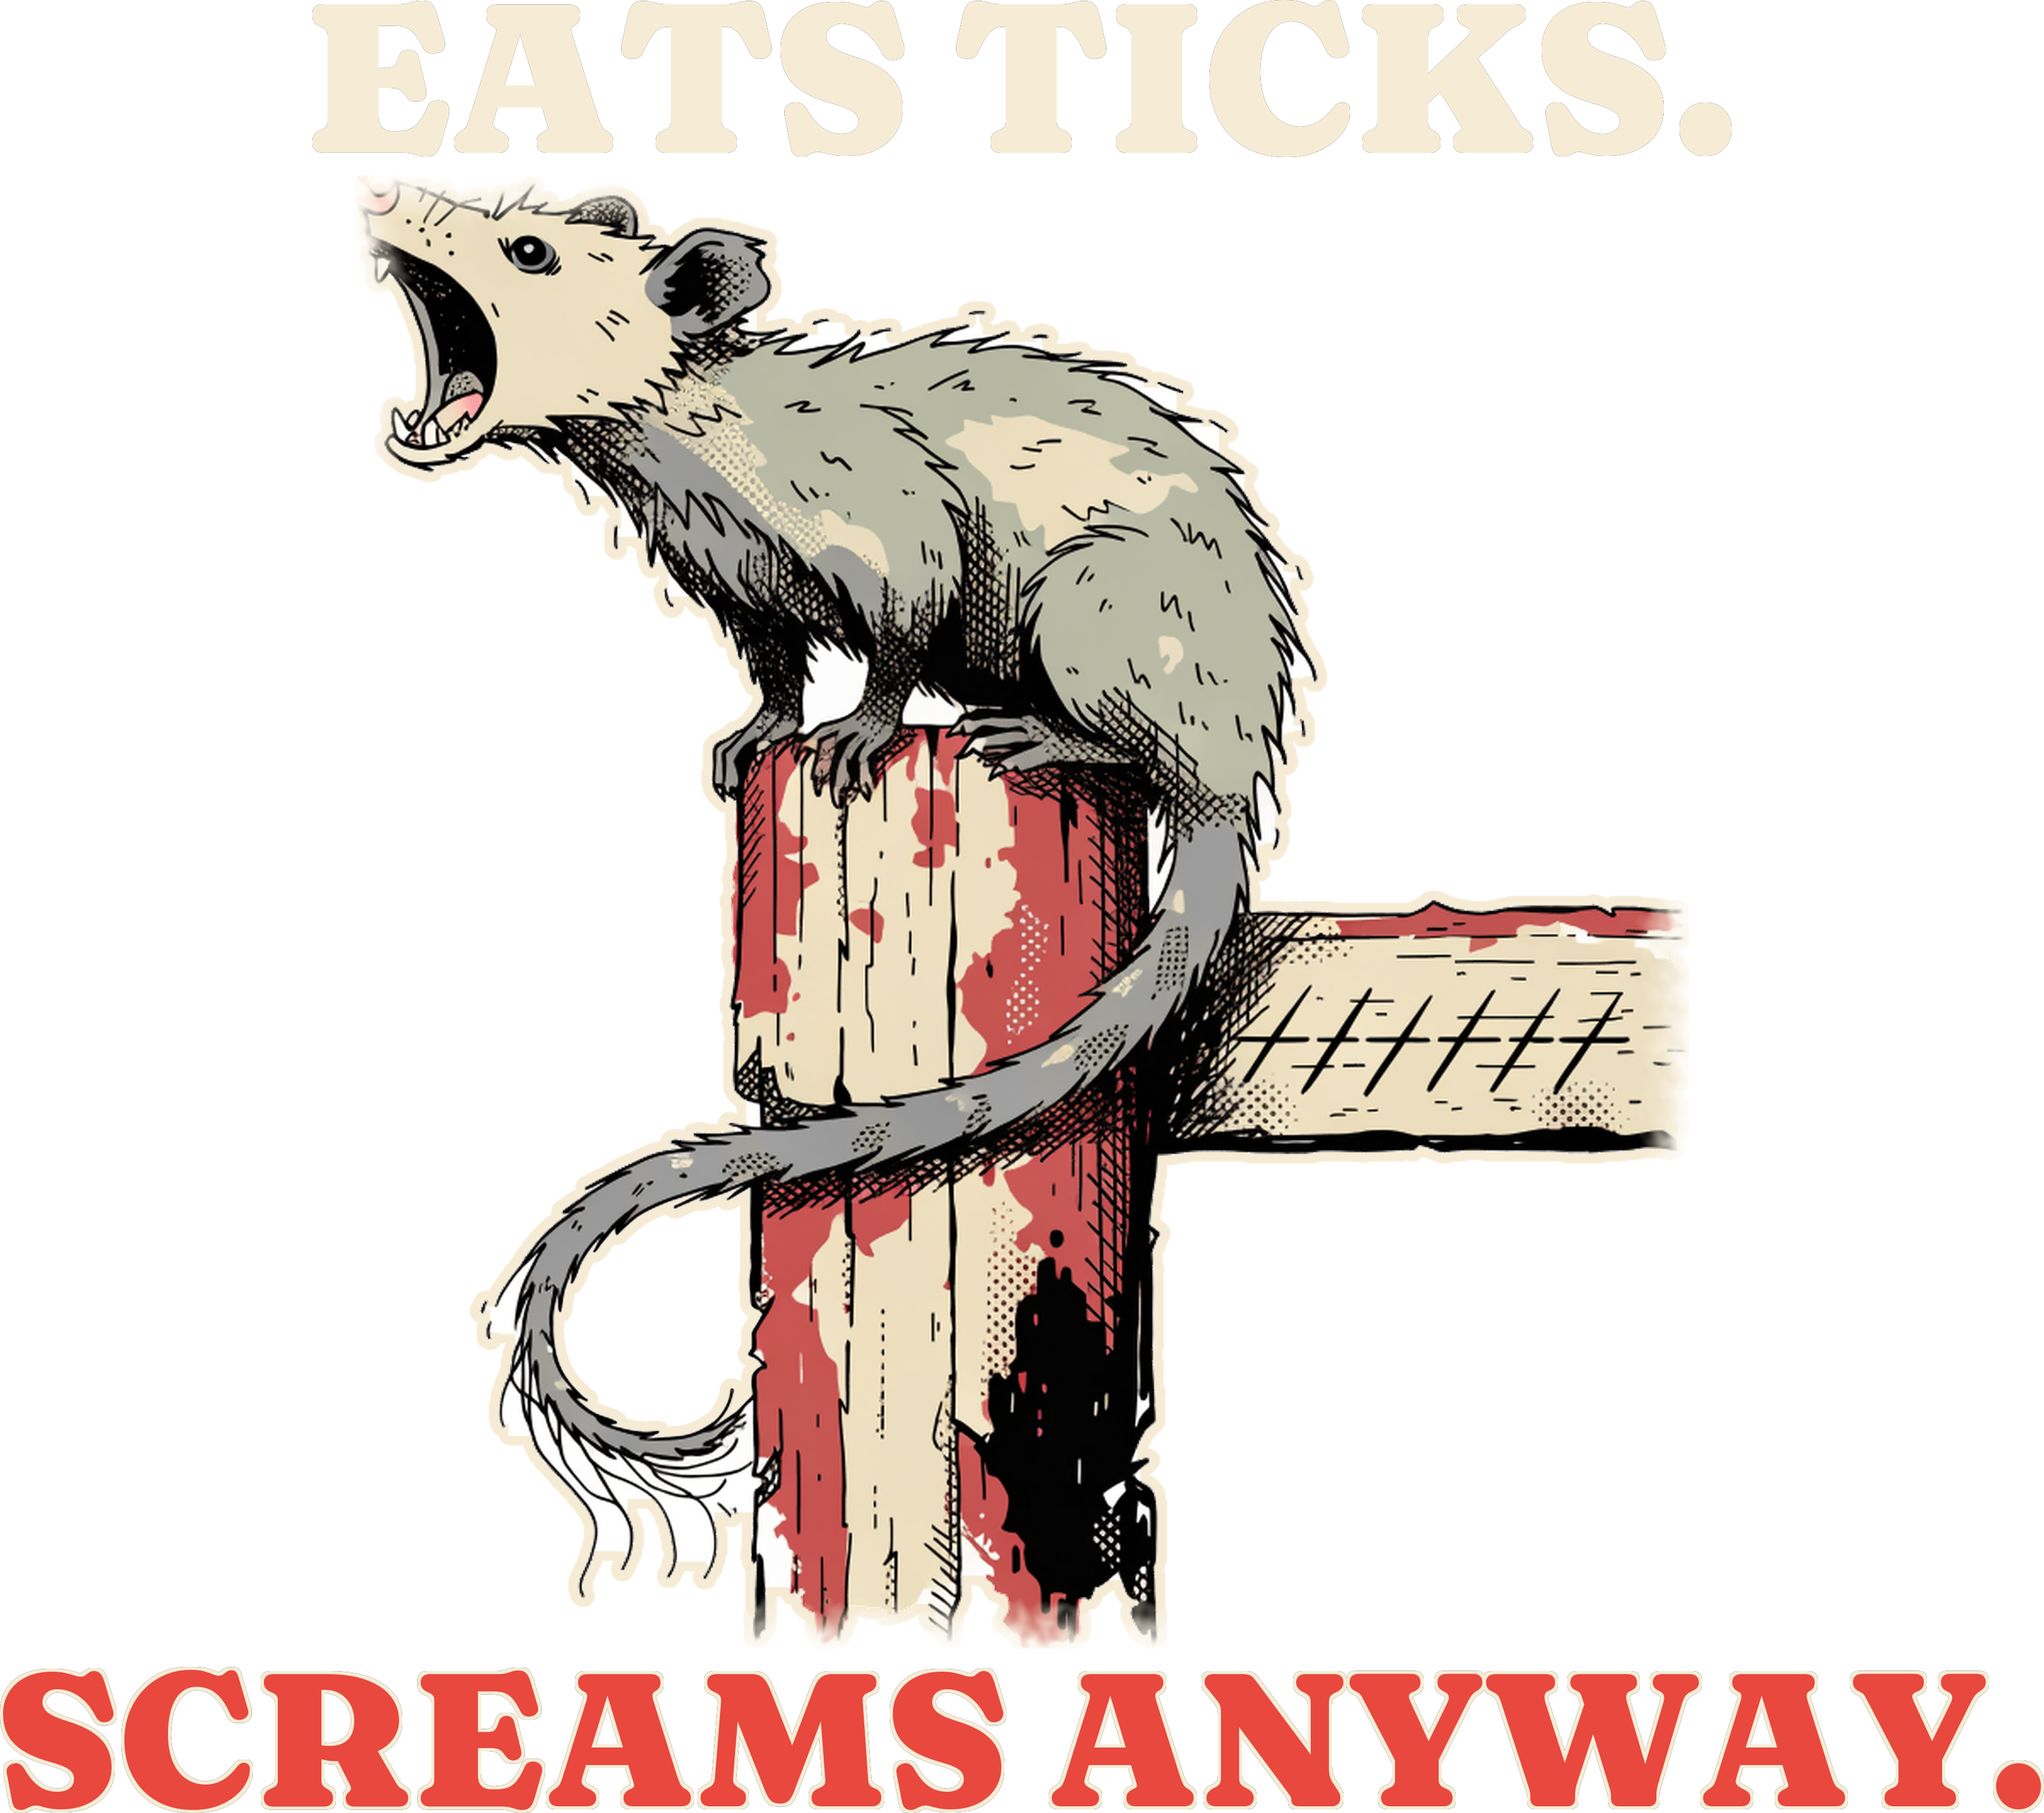
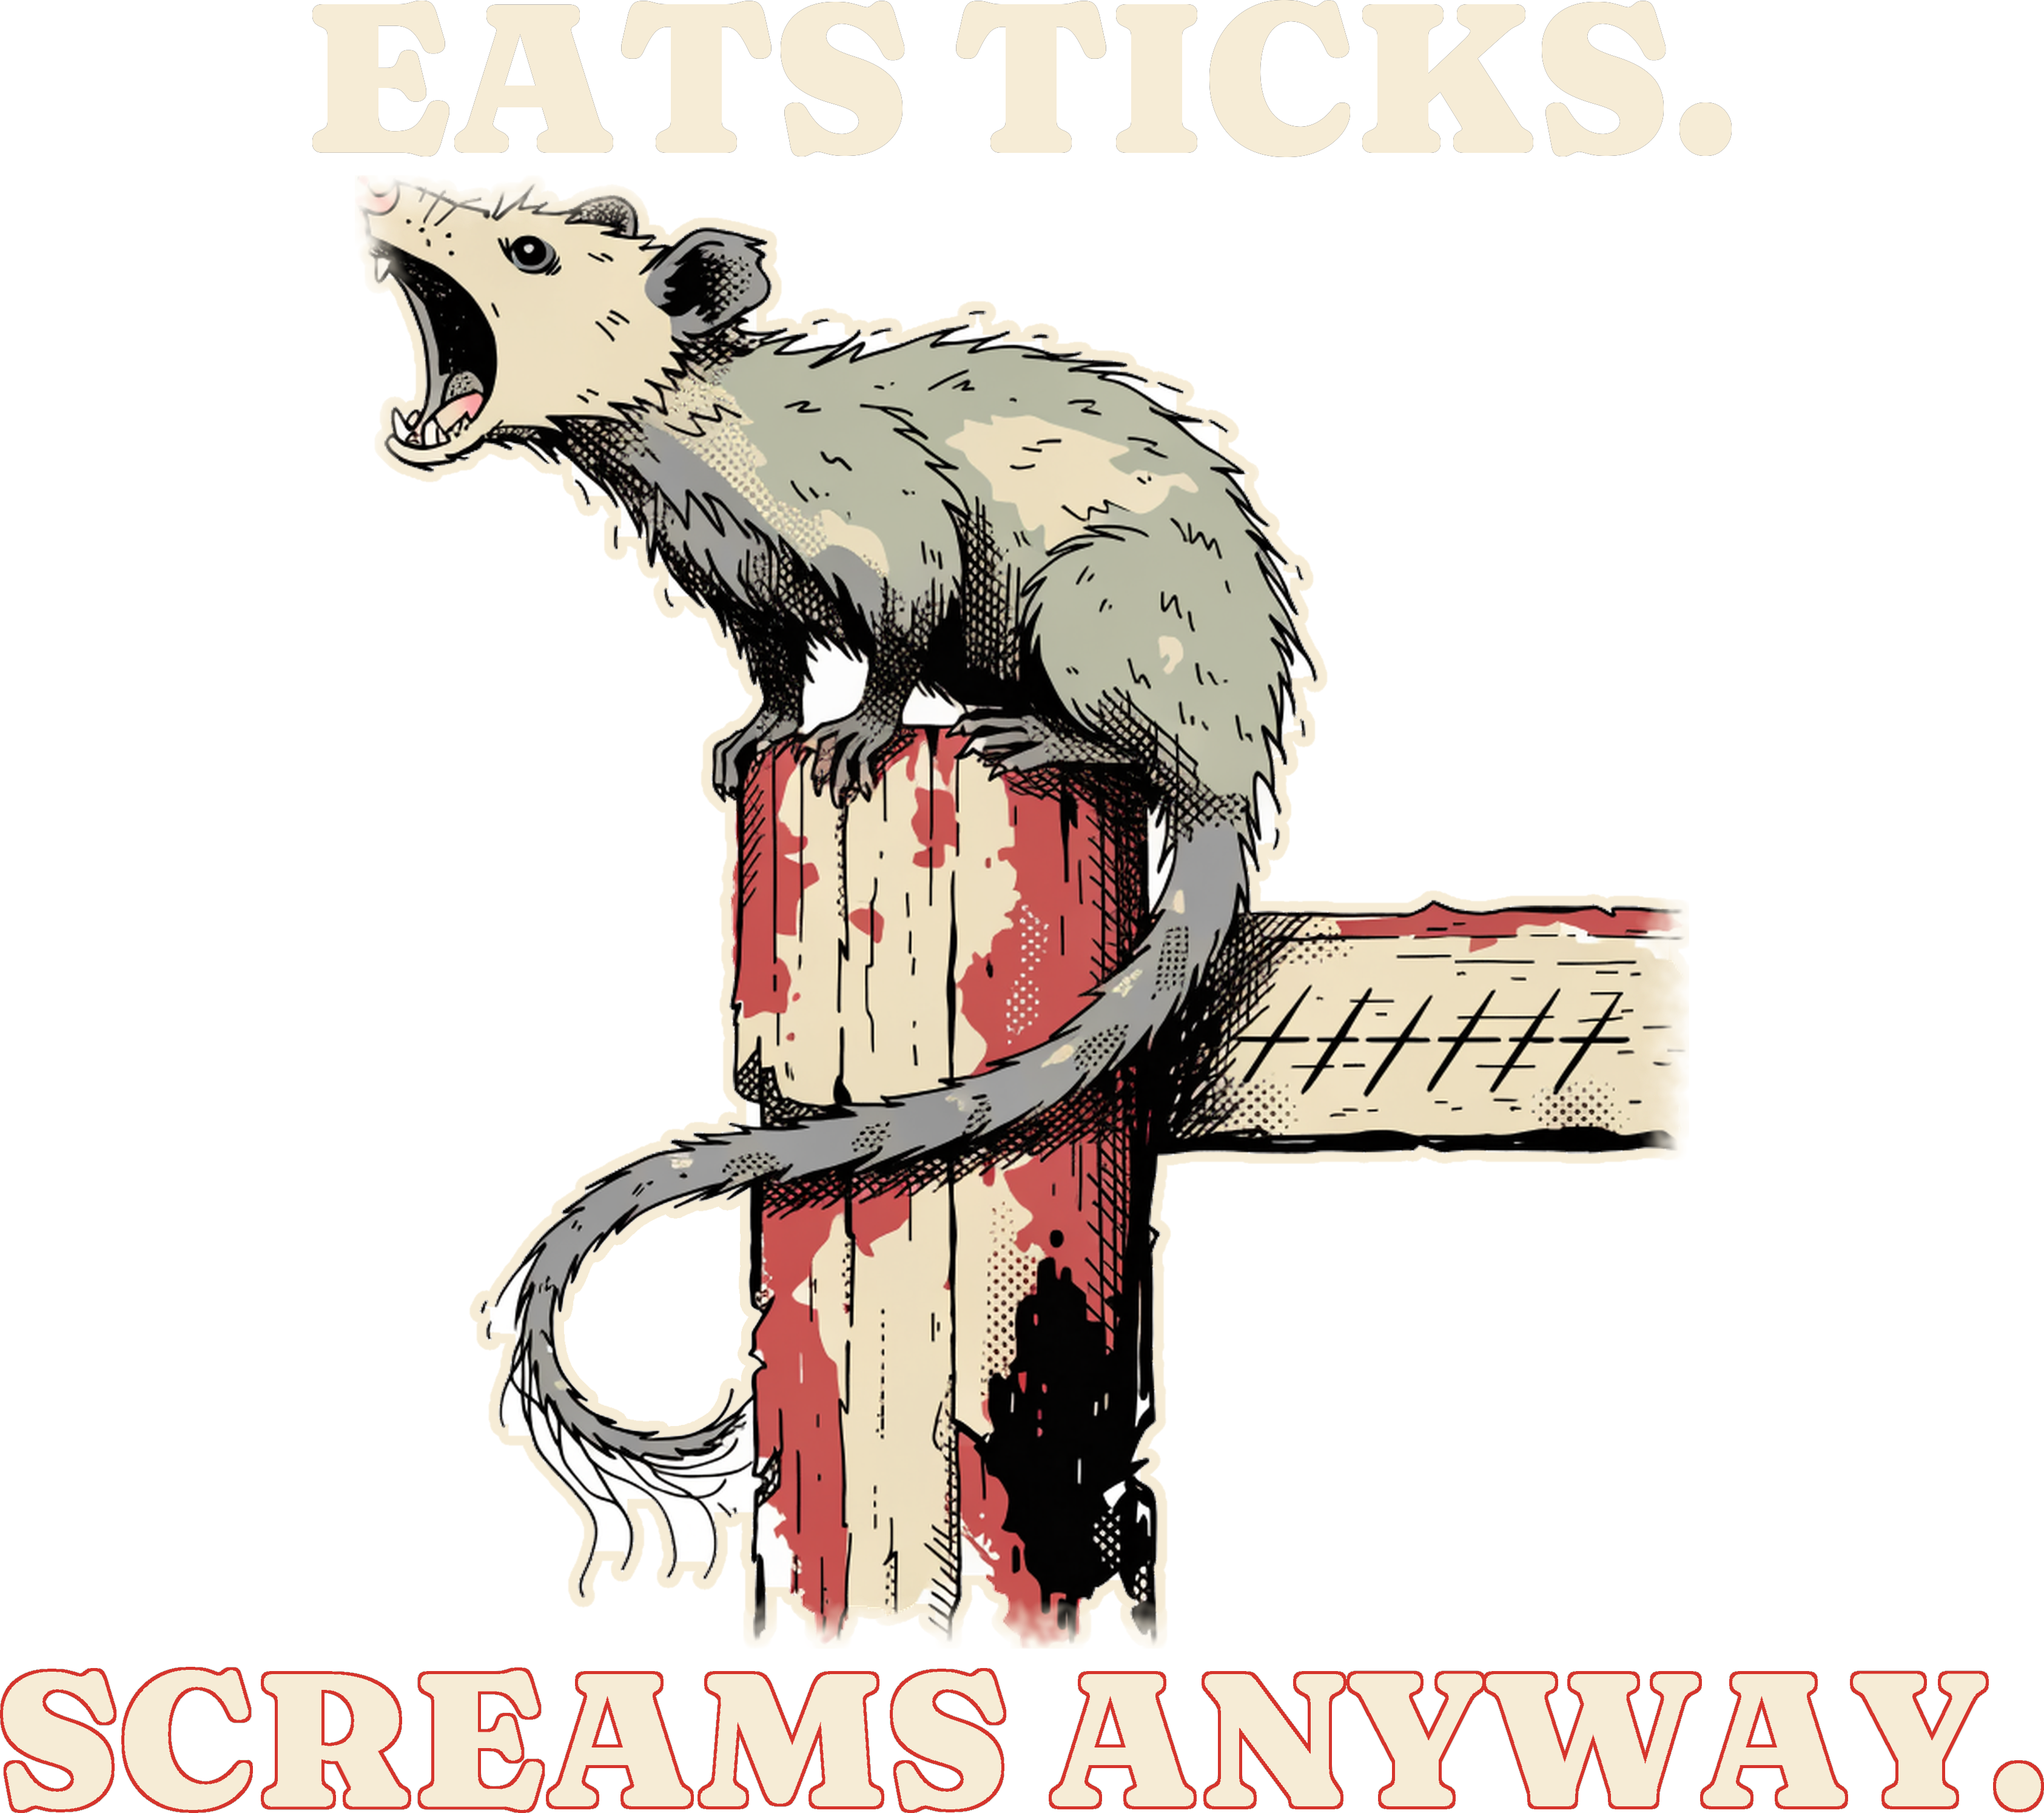
[B] review 594 possum tee redo 3

Changed region(s): [[0.0, 0.9023, 1.0, 1.0]]

diff --git a/docs/pipeline/594-possum-tee-eats-ticks-screams-anyway.md b/docs/pipeline/594-possum-tee-eats-ticks-screams-anyway.md
@@ -1,4 +1,4 @@
-status: REDO
+status: REVIEW
 lane: B
 type: new
 id: 594
@@ -31,3 +31,4 @@ kd: 40
 - 2026-10-21 08:40 UTC director: REDO. 1. R3/quality-reset type bar: the lockup is in Alfa Slab One, the face on every lane B tee from #590 to #603 (11 in a row; the bar allows one face on at most 1 in 6 of the last 30 designs). Re-set both lines in a face not used on the last 5 lane B builds (builder card 7r), keep the punch the widest line and the dark/light file split, re-verify the Printful files (R7.7) and remake the sheet. $0, no new art. 2. R7.2/7q: faded red SCREAMS ANYWAY. sinks on Heather Forest and goes muddy on Black at phone size; on the dark file use a brighter red with the cream keyline or set the punch in cream/mustard.
 - 2026-10-21 09:20 UTC [B]: REDO (08:40 note) in place on the DRAFT. 7r: faces of the last 5 lane B builds checked (grep of the pipeline logs): Anton (camo #830-834, #841-870), Bowlby One (#602), Alfa Slab One (#590-#603 before this pass); each tee below gets a face none of those use, and no two of the six tees share one. 1. Lockup re-set in Fraunces (black, soft serif, EATS TICKS. cream on the dark file, navy on the light file; SCREAMS ANYWAY. wider than the headline). Widths 2340 / 3370 px (punch 144%), type 500 of 2989 px = 17%, subject 2200 of 3370 px = 65%; FW 1650 TOP 75; dark/light split kept (dark: Black, Navy, Dark Grey Heather, Heather Forest; light: Natural, Ash, Athletic Heather). 2. The dark file's punch is now bright red (232,72,62) with the cream keyline instead of faded red; light file keeps the faded red. No new art, $0. R7.7: 49 variants 49 synced {('default', 1091005303): 28, ('back', 1080398177): 49, ('default', 1091005305): 21} (dark file 1091005303 on the 4 dark colors, light file 1091005305 on the 3 light ones), back logo 1080398177 on all. All seven mockups remade (phone-size read OK incl. Heather Forest and Black), media replaced and attached; copy unchanged (colors line still true); sheet docs/review/594.jpg.
 - 2026-10-21 10:40 UTC director: REDO. 1. R7.2/7q (second time): SCREAMS ANYWAY. is still faded red on Heather Forest and sinks at phone size (red and forest green share a value). Either drop Heather Forest from the colors, or set the dark-file punch in cream or mustard with the red as a keyline. Fraunces lockup, punch 144% and the possum all pass; nothing else to change. $0 fal.
+- 2026-10-21 15:40 UTC [B]: REDO 3 done ($0 fal, no new art), 10:40 note: the dark file's SCREAMS ANYWAY. is now CREAM (246,236,214) with a RED (214,52,44) keyline instead of red with a cream keyline, so it no longer shares a value with Heather Forest (rows 2745+ of docs/print-files/594-dark.png recolored: md5 c017c230... -> 10d7160a..., viewed: cream punch, red keyline). Light file (Natural, Ash, Athletic Heather) unchanged, Fraunces lockup, widths 2340 / 3370 px (punch 144%) and the possum unchanged. R7.7: 49/49 synced: dark file 1091193352 on the 4 dark colors (28 variants: Black, Navy, Dark Grey Heather, Heather Forest), light file 1091005305 on 21, back logo 1080398177 on 49. The four dark mockups were remade and replaced in place (alts kept); phone-size read OK: both lines cream and legible on Heather Forest, Black, Navy and Dark Grey Heather. Copy unchanged (still true). Audit only 'not visible' (still DRAFT). docs/review/594.jpg (Heather Forest, Black, Dark Grey Heather).

diff --git a/docs/intake-log.md b/docs/intake-log.md
@@ -1,4 +1,5 @@
 RUNNING director since 2026-10-21 15:24 UTC
+2026-10-21 15:40 UTC — [B] REVIEW #594 Possum Eats Ticks. Screams Anyway. Tee (REDO 3: dark-file punch cream with red keyline, 28 on 1091193352 + 21 on 1091005305, punch 144%). fal $0.
 RUNNING lane E since 2026-10-21 14:48 UTC
 2026-10-21 15:26 UTC — [B] REVIEW #885 Women's Hunting Deer Stand Princess. The Throne Is 20 Ft Up. Pink Camo Hoodie (redo in place, AOP #1419, maroon throne + stacked type, 11/11 on 1091190167, punch 100%, subject 45%). fal $0.04.
 2026-10-21 15:22 UTC — [E] REVIEW #960 zip colorway backfill on LIVE #888 sunflower (+Forest Green, Dark Chocolate, Dark Heather, Royal, 46/46) and #889 chess (same, 42/42); $0 fal; sheets 960a/960b.
